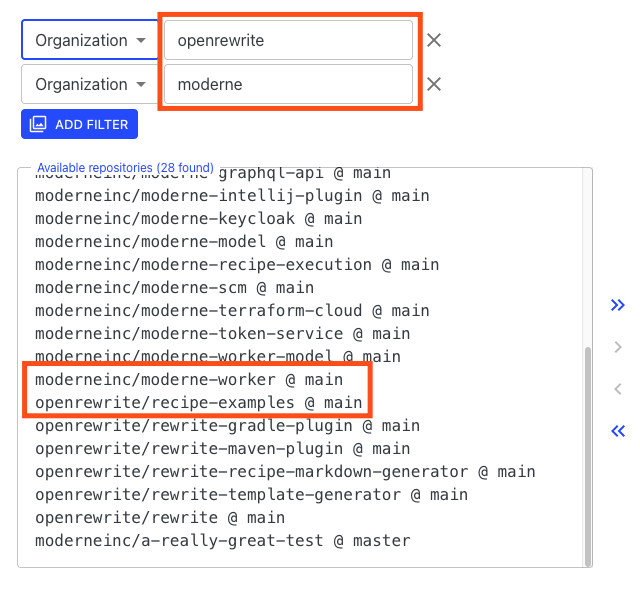
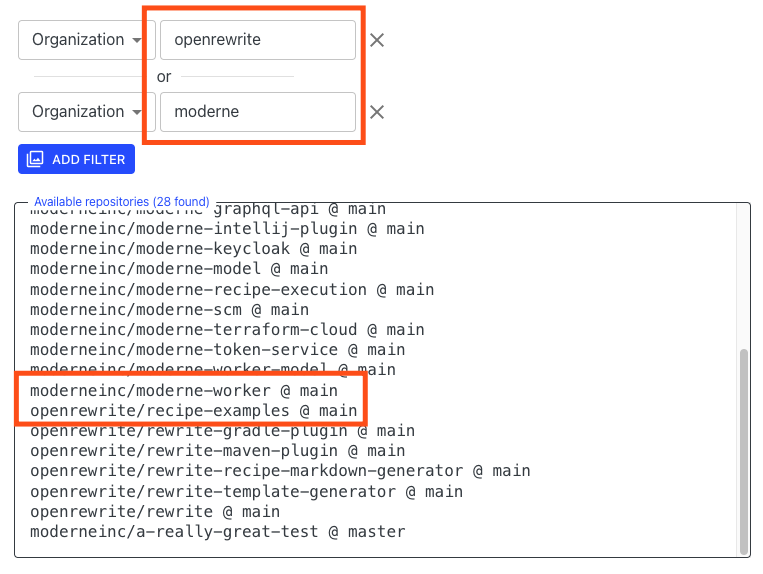
Update repo group doc w/new UI

diff --git a/references/managing-repository-groups.md b/references/managing-repository-groups.md
@@ -23,24 +23,20 @@ To help you get started with repository groups, in this guide you will learn:
 
 4. At the top, you should enter a descriptive name for the group. This will be the identifier you'll see when you go to select which group you want to run a recipe on. 
 
-5. Once you've entered a name, it's time to select the repositories you want to be included in this group. By default, all of the repositories are selected. Press the `<<` arrows to remove them so you start with an empty list:
-
-    ![](../.gitbook/assets/repo-group-4.png)
-
-6. From there, press the `Add Filter` button and specify what organization/branch/name you want to filter on. 
+5. Once you've entered a name, it's time to select the repositories you want to be included in this group. You can filter which repositories to add to your group by pressing the `Add Filter` button.
     * Please note that you can add more than one filter. If you do, the filters are additive — meaning that if you select both `openrewrite` and `moderne`, you will get all repositories that belong to either one of those organizations: 
 
     ![](../.gitbook/assets/repo-group-5.png)
 
-7. When you've finished adding filters, press the `>>` arrows in the middle of the screen to confirm your selection: 
+6. When you've finished adding filters, press the `>>` arrows in the middle of the screen to confirm your selection: 
 
     ![](../.gitbook/assets/repo-group-6.png)
 
-8. Next, click on the `Save` button in the bottom right to create the group. You will be redirected to a page that displays all of your repository groups: 
+7. Next, click on the `Save` button in the bottom right to create the group. You will be redirected to a page that displays all of your repository groups: 
 
     ![](../.gitbook/assets/repo-group-7.png)
 
-9. Now, when you go to run any recipe, you can click on the group name in the top right corner of the screen to select which repository group you want to run the recipe on: 
+8. Now, when you go to run any recipe, you can click on the group name in the top right corner of the screen to select which repository group you want to run the recipe on: 
 
     ![](../.gitbook/assets/repo-group-8.png)
 
